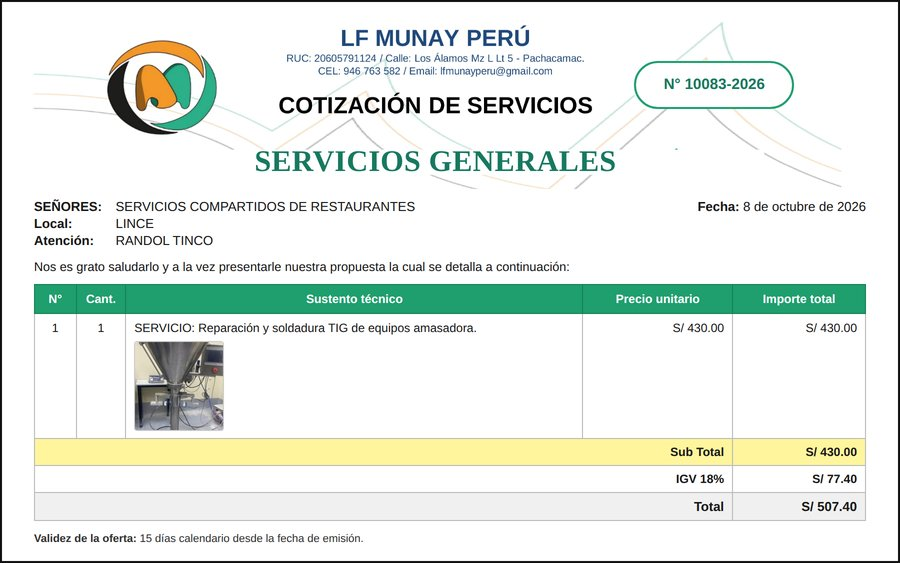
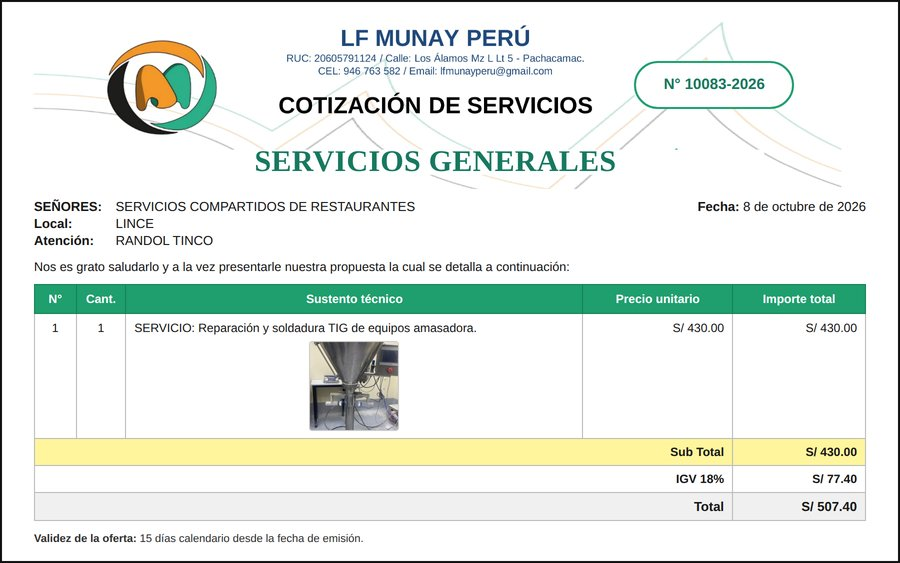
Fotos del ítem centradas en la celda; reemite 10083-2026
Claude-Session: https://claude.ai/code/session_01FMLmhpAmhWEJoegSVDoWGQ

Changed region(s): [[0.3422, 0.6039, 0.4667, 0.7851], [0.1244, 0.6039, 0.2489, 0.7851]]

diff --git a/plantilla/cotizacion.html b/plantilla/cotizacion.html
@@ -79,7 +79,7 @@
   .condiciones li { margin: 1px 0; }
 
   /* Fila con foto (Servicios Generales) — 1 a 3 fotos, opcional */
-  .photo-row { display: flex; gap: 6px; margin-top: 6px; }
+  .photo-row { display: flex; justify-content: center; gap: 6px; margin-top: 6px; }
   .photo-row img { width: 90px; height: 90px; object-fit: cover; border: 1px solid #ccc; border-radius: 3px; }
 
   /* Fila separadora: divide visualmente un grupo de ítems dentro de la misma tabla
